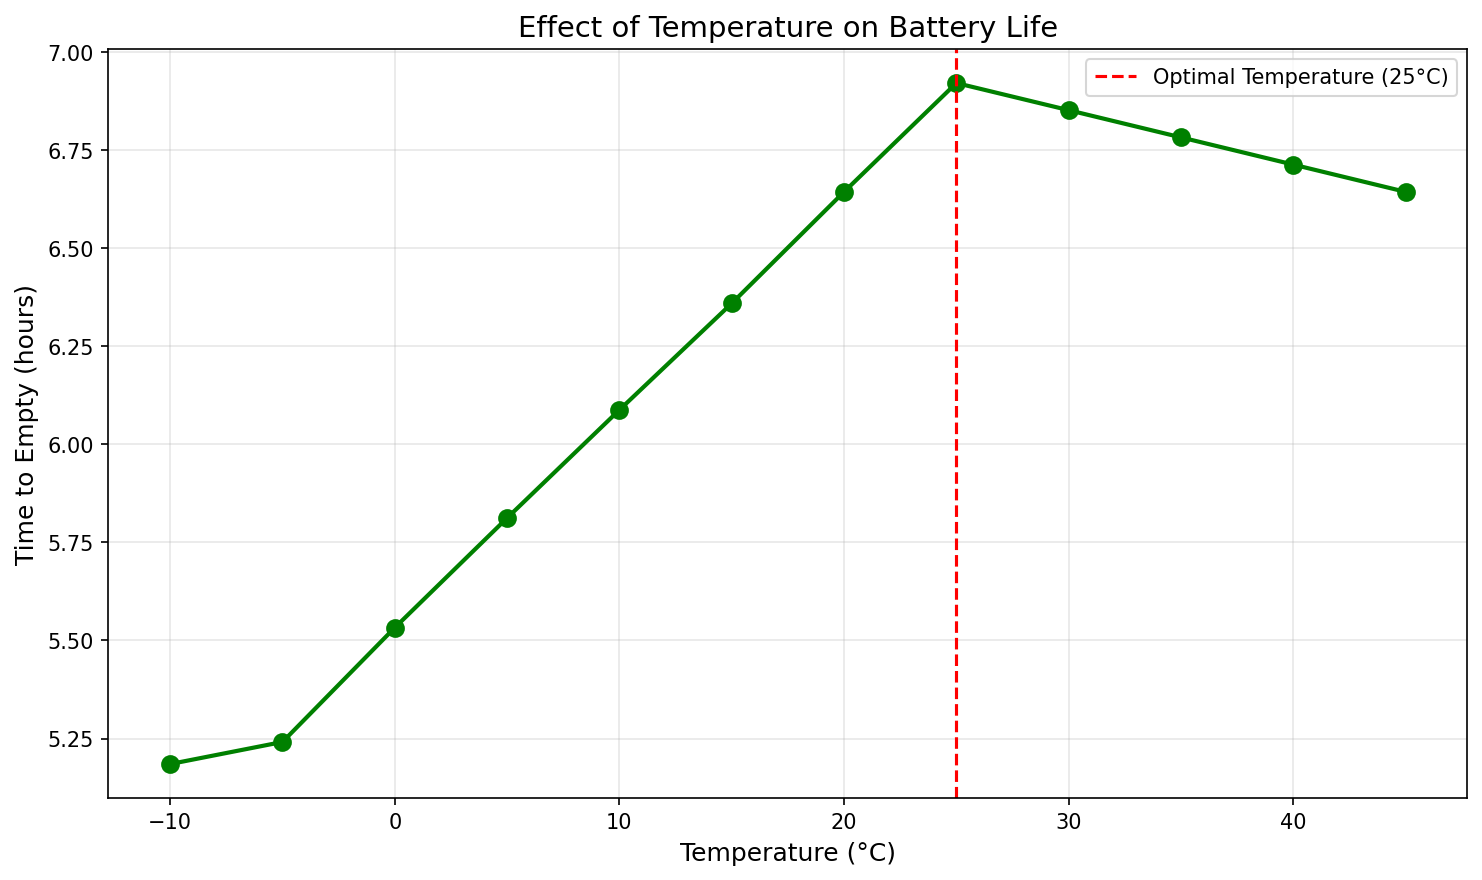
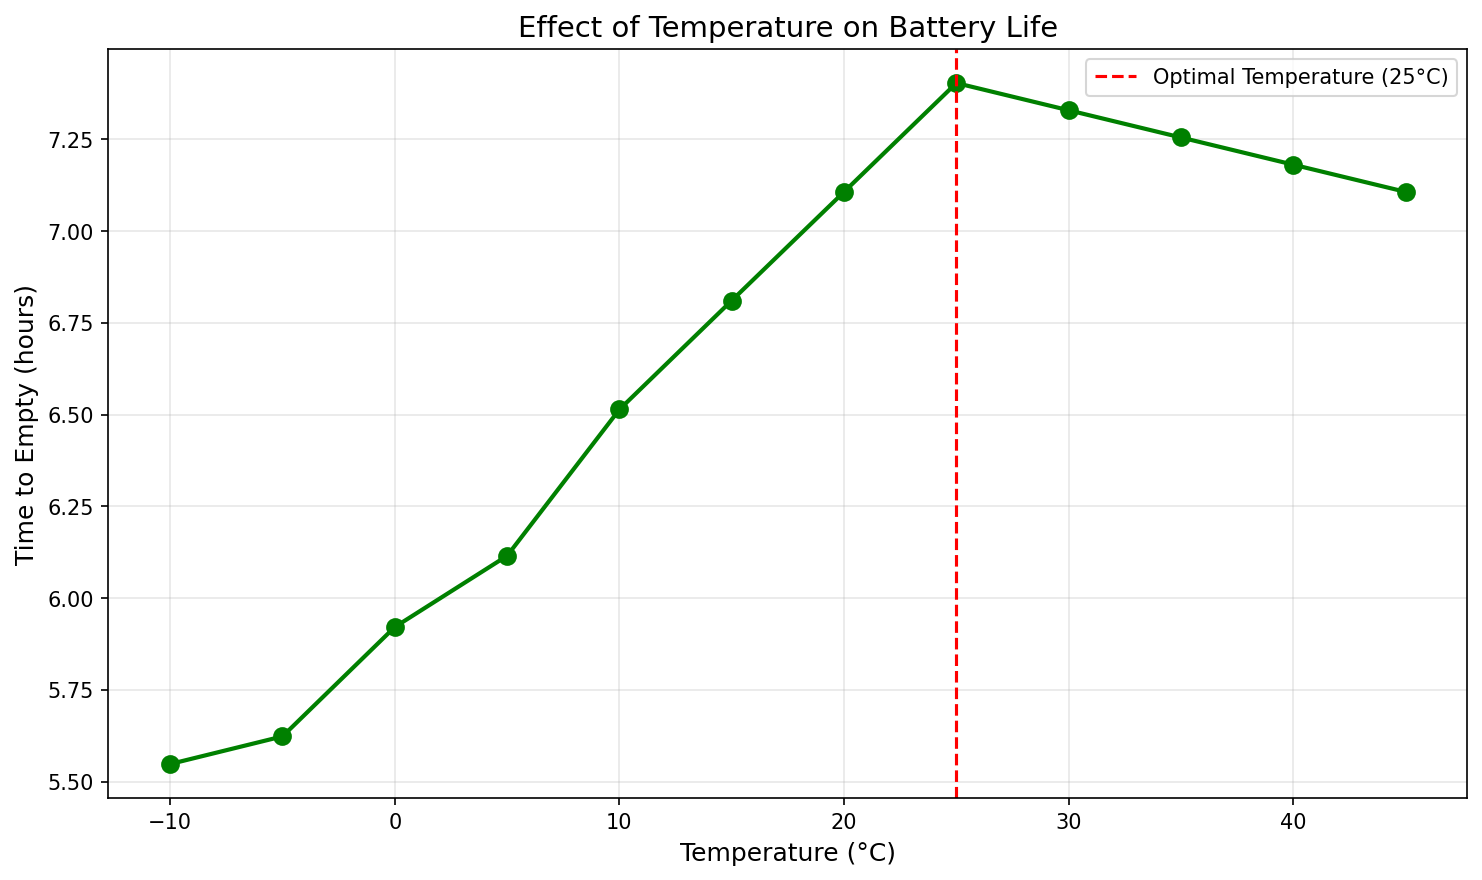
Fix non-linear brightness and background apps power consumption

diff --git a/battery_model.py b/battery_model.py
@@ -258,9 +258,16 @@ class SmartphoneBatteryModel:
             
         P_total = usage.P_idle
         
-        # Screen power
+        # Screen power (non-linear: AMOLED/LCD efficiency drops at high brightness)
+        # Power increases slowly at low brightness, accelerates at high brightness
+        # Based on empirical OLED power measurements showing ~quadratic relationship
         if usage.screen_on:
-            P_total += usage.P_screen_base * (0.5 + 0.5 * usage.brightness_factor)
+            # Non-linear brightness model: P = P_base * (0.3 + 0.7 * brightness^1.5)
+            # At 0% brightness: 30% of base power (backlight/always-on pixels)
+            # At 100% brightness: 100% of base power
+            # The exponent 1.5 creates realistic acceleration at high brightness
+            brightness_power_factor = 0.3 + 0.7 * (usage.brightness_factor ** 1.5)
+            P_total += usage.P_screen_base * brightness_power_factor
         
         # Processor power with thermal throttling
         thermal_factor = self.calculate_thermal_throttling_factor(usage, duration_hours)
@@ -294,8 +301,16 @@ class SmartphoneBatteryModel:
         if usage.gps_active:
             P_total += usage.P_gps
             
-        # Background apps
-        P_total += usage.P_background_app * usage.n_background_apps
+        # Background apps (diminishing returns due to OS resource management)
+        # First few apps have full impact, additional apps have reduced marginal effect
+        # Models: memory sharing, CPU scheduling limits, and system-level throttling
+        # Using logarithmic saturation: P = P_base * k * ln(1 + n/k) where k controls saturation rate
+        if usage.n_background_apps > 0:
+            k = 5.0  # Saturation constant: effect starts diminishing after ~5 apps
+            # This gives approximately linear behavior for first few apps,
+            # then saturates (e.g., 10 apps ≈ 1.6x effect of 5 apps, not 2x)
+            background_power = usage.P_background_app * k * np.log(1 + usage.n_background_apps / k)
+            P_total += background_power
         
         # Power saving mode reduces all power by ~30%
         if usage.power_saving_mode:
@@ -951,15 +966,22 @@ def run_comprehensive_analysis():
     # Create breakdown for moderate usage
     usage = scenarios['moderate']
     
+    # Non-linear brightness calculation (same as in calculate_power_consumption)
+    brightness_power = usage.P_screen_base * (0.3 + 0.7 * (usage.brightness_factor ** 1.5)) if usage.screen_on else 0
+    
+    # Non-linear background apps calculation (same as in calculate_power_consumption)
+    k = 5.0
+    background_power = usage.P_background_app * k * np.log(1 + usage.n_background_apps / k) if usage.n_background_apps > 0 else 0
+    
     breakdown = {
         'Idle': usage.P_idle,
-        'Screen': usage.P_screen_base * (0.5 + 0.5 * usage.brightness_factor) if usage.screen_on else 0,
+        'Screen': brightness_power,
         'Processor': usage.P_processor_idle + (usage.P_processor_max - usage.P_processor_idle) * usage.processor_load,
         'WiFi': usage.P_wifi if usage.wifi_active else 0,
         'Cellular': usage.P_cellular if usage.cellular_active else 0,
         'Bluetooth': usage.P_bluetooth if usage.bluetooth_active else 0,
         'GPS': usage.P_gps if usage.gps_active else 0,
-        'Background Apps': usage.P_background_app * usage.n_background_apps
+        'Background Apps': background_power
     }
     
     total = sum(breakdown.values())
